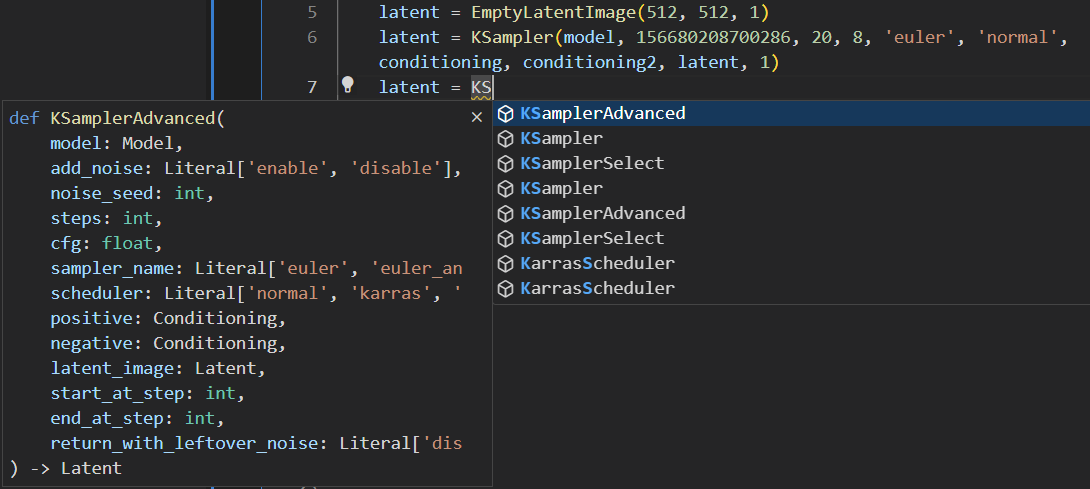
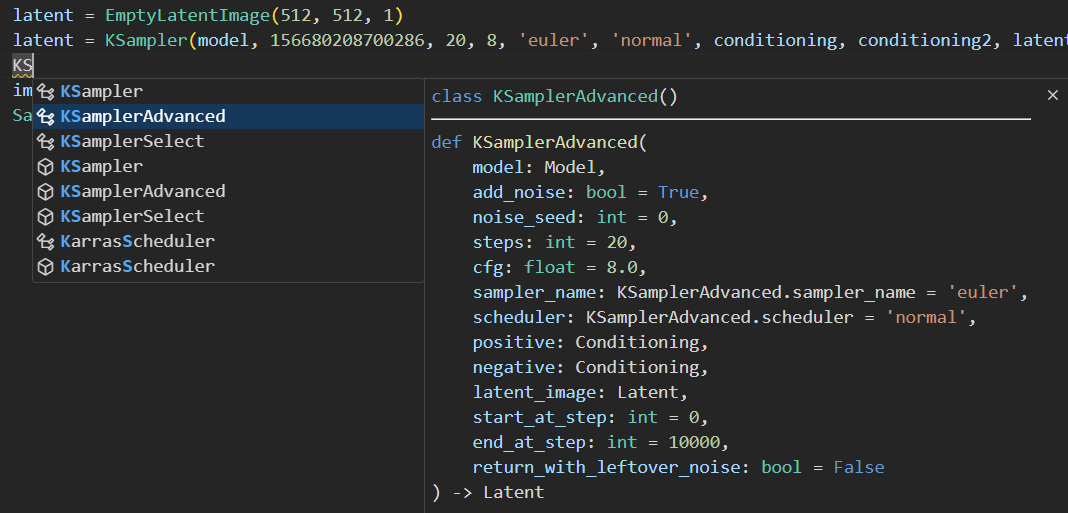
feat(runtime): support default values

Changed region(s): [[0.0, 0.0, 1.0, 0.9202], [0.0309, 0.6442, 0.2781, 0.7669], [0.0, 0.9509, 0.5253, 1.0]]

diff --git a/script/runtime/stub.py b/script/runtime/stub.py
@@ -42,15 +42,22 @@ class TypeStubGenerator:
         self._input_types = {}
         self._node_types = []
 
-    def add_node(self, node: dict, class_id: str, def_enum: Callable[[str, Enum], None]) -> None:
+    def add_node(self, node: dict, class_id: str, def_enum: Callable[[str, Enum], None]) -> dict:
+        '''
+        Returns default value dict.
+        '''
+        defaults = {}
+
         input_enums = ''
 
-        def to_type_hint(type: Union[str, list], name: str = None, optional: bool = False) -> str:
+        def to_type_hint(type: Union[str, list], name: str = None, optional: bool = False, default = None) -> str:
             nonlocal input_enums
 
             if isinstance(type, list):
                 if is_bool_enum(type):
-                    c = f'bool = {bool_enum_default(type)}'
+                    c = 'bool'
+                    if default is None:
+                        default = bool_enum_default(type)
                 else:
                     # c = 'list[str]'
 
@@ -62,6 +69,9 @@ class TypeStubGenerator:
                     c = f'{class_id}.{name}'
 
                     def_enum(name, enum)
+
+                    if default is None and len(type) > 0:
+                        default = type[0]
             elif type == 'INT':
                 c = 'int'
             elif type == 'FLOAT':
@@ -76,9 +86,22 @@ class TypeStubGenerator:
                     self._input_types[type_id] = f'class {type_id}: ...'
                     self._def_class(type_id)
                 c = type_id
+            
             if optional:
                 # c = f'Optional[{c}]'
                 c = f'{c} | None'
+                if default is None:
+                    defaults[name] = None
+
+                    c += ' = None'
+            
+            if default is not None:
+                defaults[name] = default
+
+                if isinstance(default, str):
+                    default = astutil.to_str(default)
+                c += f' = {default}'
+            
             return c
 
         inputs = []
@@ -86,8 +109,12 @@ class TypeStubGenerator:
             group: dict = node['input'].get(group)
             if group is None:
                 continue
-            for name, config in group.items():
-                inputs.append(f'{name}: {to_type_hint(config[0], name, optional)}')
+            for name, type_config in group.items():
+                type = type_config[0]
+                config = {}
+                if len(type_config) > 1:
+                    config = type_config[1]
+                inputs.append(f'{name}: {to_type_hint(type, name, optional, config.get("default"))}')
         
         # Classes are used instead of functions for:
         # - Different syntax highlight color for nodes and utility functions/methods
@@ -107,14 +134,30 @@ f"""    '''```
     def {class_id}(
         {f",{chr(10)}        ".join(inputs)}
     ){output_type_hint}
-    ```'''
-""")
+    ```""")
+        
+        # TODO: Min, max
+        
+        for i, input in reversed(list(enumerate(inputs))):
+            if '=' not in input:
+                removed = False
+                for j, input in enumerate(inputs[:i]):
+                    if '=' in input:
+                        inputs[j] = input[:input.index('=')].rstrip() + ' | None'
+                        removed = True
+                if removed:
+                    c += '\n    Use `None` to use default values of arguments that appear before any non-default argument.\n    '
+                break
+        
+        c += "'''\n"
 
         c += f'    def __new__(cls, {", ".join(inputs)}){output_type_hint}: ...\n'
         
         c += input_enums
         
         self._node_types.append(c)
+        
+        return defaults
 
     def generate(self) -> str:
         c = (

diff --git a/script/runtime/__init__.py b/script/runtime/__init__.py
@@ -58,7 +58,12 @@ async def load(api_endpoint: str = endpoint, vars: dict = None, daemon: bool = T
     for node in nodes.values():
         class_id = astutil.str_to_class_id(node['name'])
 
-        def f(*args, _comfyscript_node=node,  **kwargs):
+        enums = {}
+        def def_enum(enum_id: str, enum: Enum):
+            enums[enum_id] = enum
+        defaults = type_stub.add_node(node, class_id, def_enum)
+
+        def f(*args, _comfyscript_node=node, _comfyscript_defaults=defaults,  **kwargs):
             global prompt
 
             node = _comfyscript_node
@@ -67,6 +72,10 @@ async def load(api_endpoint: str = endpoint, vars: dict = None, daemon: bool = T
             id = assign_id()
 
             inputs = positional_args_to_keyword(node, args) | kwargs
+            for k in list(inputs.keys()):
+                if inputs[k] is None:
+                    del inputs[k]
+            inputs = _comfyscript_defaults | inputs
             for k, v in inputs.items():
                 if isinstance(v, Enum):
                     inputs[k] = v.value
@@ -92,10 +101,8 @@ async def load(api_endpoint: str = endpoint, vars: dict = None, daemon: bool = T
                 return [id, 0]
             else:
                 return [[id, i] for i in range(outputs)]
-
-        def def_enum(enum_id: str, enum: Enum):
+        for enum_id, enum in enums.items():
             setattr(f, enum_id, enum)
-        type_stub.add_node(node, class_id, def_enum)
 
         vars[class_id] = f
     

diff --git a/README.md b/README.md
@@ -115,7 +115,9 @@ A Jupyter Notebook example is available at [runtime.ipynb](runtime.ipynb).
 
 - [Type stubs](https://typing.readthedocs.io/en/latest/source/stubs.html) will be generated at [`script/runtime/__init__.pyi`](script/runtime/__init__.pyi) after loading. Mainstream editors can use them to help with coding:
 
-  ![](images/README/type-stubs.png)
+  | | |
+  | --- | --- |
+  | ![](images/README/type-stubs.png) | ![](images/README/type-stubs2.png) |
 
 - The runtime is asynchronous by default. You can queue multiple prompts without waiting for the first one to finish. A daemon thread will watch and report the remaining prompts in the queue and the current progress, for example:
   ```
